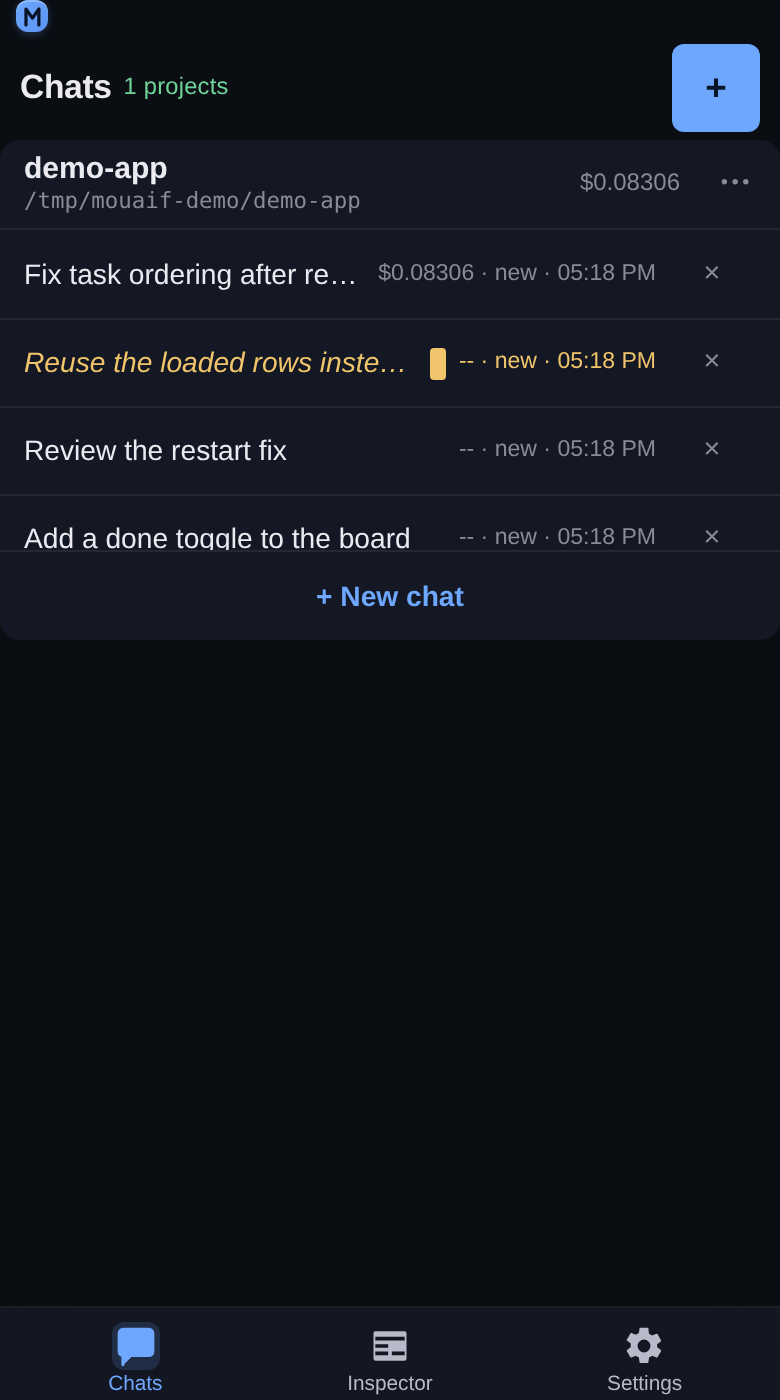
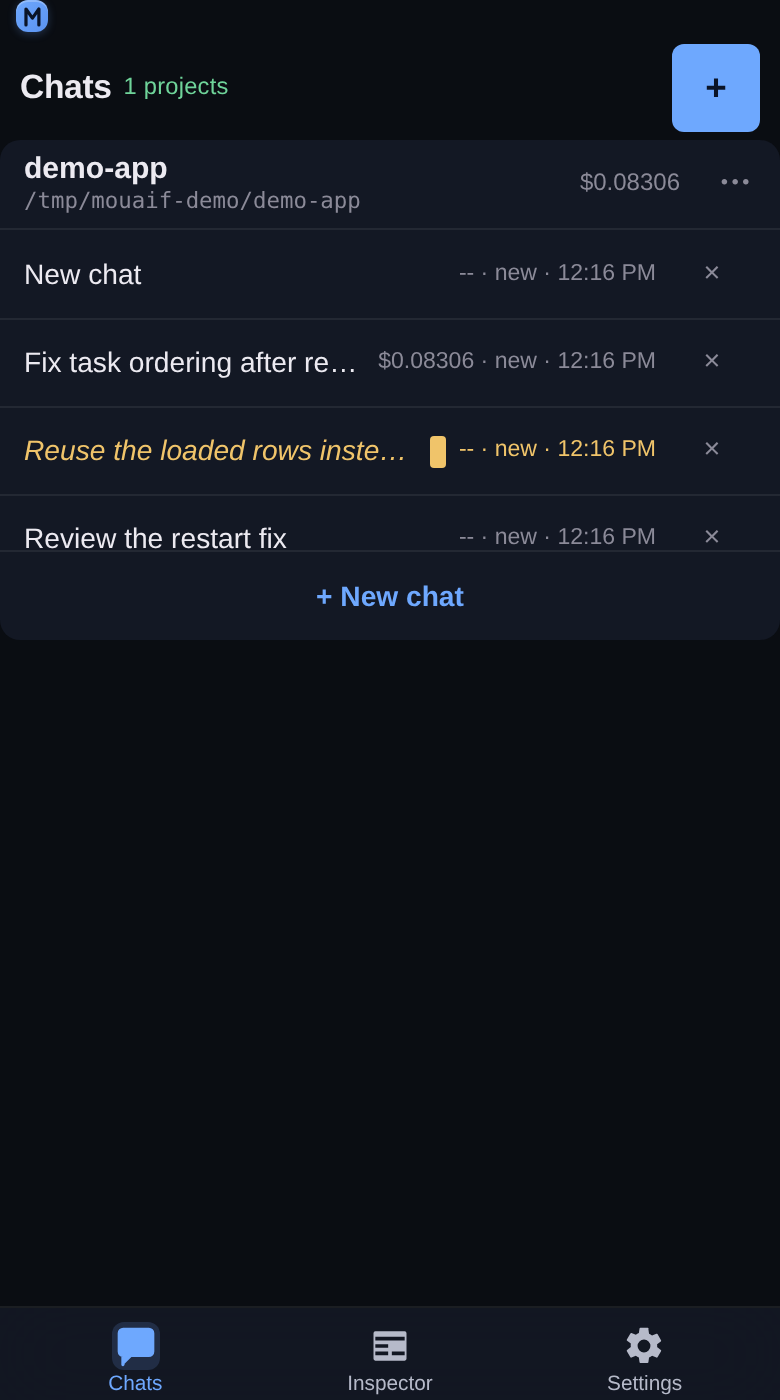
feat(docs): add an empty-chat tools capture to the landing page
The landing page's "See it on a phone" row started on a populated chat, so
the one screen a new user sees first — a brand-new chat, where the tools
card lists every tool with its Off / Ask / Allow control and its per-tool
checkbox — had no capture anywhere on the site.

- `seedChats()` now returns `{ chatId, emptyChatId }` and seeds a second,
  message-less chat over the same project models, so the tools capture has
  a real deep link instead of a synthesised screenshot.
- `capture-landing-shots.js` gains a `chat-tools.png` shot on that chat. Its
  recipe expands every collapsed `.tool-tree__chev` so the leaf checkboxes
  are visible, and `waitFor: '[data-tools-card="1"]'` holds the frame until
  the asynchronously fetched tool catalog has rendered the card.
- The shot is the second figure on the page, right after the chats list.
  Seven captures no longer fill a `repeat(3, ...)` grid evenly, so the row
  moves to `repeat(4, ...)` and `.site--full .main` is widened to 1180 px;
  the tablet and phone queries are unchanged.
- `chat-view.png`, `chats-list.png` and `inspector.png` are re-shot by the
  same run (the fixture gained a chat, so the project card changed).

diff --git a/docs/features/docs-site.html b/docs/features/docs-site.html
@@ -39,12 +39,13 @@
 <p>The public guide order and the public navigation links come from a single allowlist in <a href="../../scripts/build-docs.js">scripts/build-docs.js</a> (<code>PUBLIC_GUIDE_SLUGS</code>). The decisions log and the agent notes are never linked from the public navigation and are not written at all in a public build.</p>
 <p>The generated <code>features/*.html</code>, <code>index.html</code>, <code>documentation.html</code>, <code>assets/</code> and <code>.nojekyll</code> are committed under <code>docs/</code>, because Pages serves the branch as-is. The <code>.md</code> sources and <code>features/images/</code> sit in the same tree and are what the build reads.</p>
 <h2 id="landing-page-screenshots">Landing page screenshots</h2>
-<p>The landing page (<code>index.html</code>) opens with a <strong>See it on a phone</strong> section: six phone-width captures of the running app, showing what the app actually does rather than only saying it. The copy states the promise (every screen is built for a 360–430 px viewport first) and the captures are the evidence, so a reader sees the app before the install commands.</p>
-<p>The six captures, in page order:</p>
-<div class="table-wrap"><table><thead><tr><th>Capture</th><th>What it shows</th></tr></thead><tbody><tr><td><code>chats-list.png</code></td><td>The Chats tab — a project card holding its own chat list, a draft-only chat in italics, and <strong>New chat</strong></td></tr><tr><td><code>chat-view.png</code></td><td>A chat at the end of a run — the model header, per-turn cost lines, and the <strong>Read</strong>, <strong>Searched</strong>, <strong>Wrote</strong> and <strong>Ran</strong> tool cards</td></tr><tr><td><code>providers.png</code></td><td>Settings → Providers — three connected providers, each naming its endpoint and whether a key is stored</td></tr><tr><td><code>project-settings.png</code></td><td>Project settings — prompt style, then every tool with its own <strong>Off / Ask / Allow</strong> control</td></tr><tr><td><code>inspector.png</code></td><td>The Inspector attached to a page over CDP — target bar, panel chips, live preview, console input</td></tr><tr><td><code>settings.png</code></td><td>The Settings tab — providers first, then the app defaults that apply to every project</td></tr></tbody></table></div>
+<p>The landing page (<code>index.html</code>) opens with a <strong>See it on a phone</strong> section: seven phone-width captures of the running app, showing what the app actually does rather than only saying it. The copy states the promise (every screen is built for a 360–430 px viewport first) and the captures are the evidence, so a reader sees the app before the install commands.</p>
+<p>The seven captures, in page order:</p>
+<div class="table-wrap"><table><thead><tr><th>Capture</th><th>What it shows</th></tr></thead><tbody><tr><td><code>chats-list.png</code></td><td>The Chats tab — a project card holding its own chat list, a draft-only chat in italics, and <strong>New chat</strong></td></tr><tr><td><code>chat-tools.png</code></td><td>A brand-new chat — the system-prompt card and the <strong>Tools</strong> card, one checkbox and one <strong>Off / Ask / Allow</strong> control per tool</td></tr><tr><td><code>chat-view.png</code></td><td>A chat at the end of a run — the model header, per-turn cost lines, and the <strong>Read</strong>, <strong>Searched</strong>, <strong>Wrote</strong> and <strong>Ran</strong> tool cards</td></tr><tr><td><code>providers.png</code></td><td>Settings → Providers — three connected providers, each naming its endpoint and whether a key is stored</td></tr><tr><td><code>project-settings.png</code></td><td>Project settings — prompt style, then every tool with its own <strong>Off / Ask / Allow</strong> control</td></tr><tr><td><code>inspector.png</code></td><td>The Inspector attached to a page over CDP — target bar, panel chips, live preview, console input</td></tr><tr><td><code>settings.png</code></td><td>The Settings tab — providers first, then the app defaults that apply to every project</td></tr></tbody></table></div>
 <p>The images live in the same feature image tree as every other screenshot, so the existing recursive copy ships them:</p>
 <pre><code class="language-text">docs/features/images/landing/
   chats-list.png         # Chats tab, 390 × 700 @2x
+  chat-tools.png         # Empty chat, tools card expanded, 390 × 700 @2x
   chat-view.png          # Chat transcript, end of run, 390 × 700 @2x
   providers.png          # Settings → Providers, 390 × 700 @2x
   project-settings.png   # Project settings, 390 × 700 @2x
@@ -52,7 +53,7 @@
   settings.png           # Settings tab, 390 × 700 @2x</code></pre>
 <p>Because the section is on the site root, its <code>src</code> values are prefixed <code>features/images/...</code> rather than the <code>./images/...</code> a Markdown feature page uses.</p>
 <h3 id="layout">Layout</h3>
-<ul><li><p><strong>Laptop (above 1040 px)</strong> — three per row, in a fixed <code>repeat(3, minmax(0, 1fr))</code> grid. Six captures fill two rows exactly, so no capture is left alone and stretched on a row of its own.</p></li><li><p><strong>Tablet (761–1040 px)</strong> — two per row, centred at a 760 px maximum.</p></li><li><p><strong>Phone (<code>max-width: 760px</code>)</strong> — a single stacked column, each capture capped at 340 px and centred. Side-by-side thumbnails on a 360 px screen made the UI in each capture unreadable; the same breakpoint already stacks the <code>.feature</code> screenshot rows.</p></li><li><p><code>align-items: start</code> keeps the captures from stretching each other, and each keeps its own aspect ratio (<code>width: 100%</code>, <code>height: auto</code> on <code>.shot img</code>), so a shorter capture is a shorter card instead of a letterboxed one. The image has no corner radius because the <code>.shot</code> card and its <code>overflow: hidden</code> already clip it.</p></li></ul>
+<ul><li><p><strong>Laptop (above 1040 px)</strong> — four per row, in a fixed <code>repeat(4, minmax(0, 1fr))</code> grid. Seven captures fill one full row plus three, so no capture is left alone and stretched on a row of its own.</p></li><li><p><strong>Tablet (761–1040 px)</strong> — two per row, centred at a 760 px maximum.</p></li><li><p><strong>Phone (<code>max-width: 760px</code>)</strong> — a single stacked column, each capture capped at 340 px and centred. Side-by-side thumbnails on a 360 px screen made the UI in each capture unreadable; the same breakpoint already stacks the <code>.feature</code> screenshot rows.</p></li><li><p><code>align-items: start</code> keeps the captures from stretching each other, and each keeps its own aspect ratio (<code>width: 100%</code>, <code>height: auto</code> on <code>.shot img</code>), so a shorter capture is a shorter card instead of a letterboxed one. The image has no corner radius because the <code>.shot</code> card and its <code>overflow: hidden</code> already clip it.</p></li></ul>
 <h3 id="refreshing-the-captures">Refreshing the captures</h3>
 <p>Every capture is produced by one command:</p>
 <pre><code class="language-bash">npm run docs:shots</code></pre>

diff --git a/scripts/build-docs.js b/scripts/build-docs.js
@@ -572,7 +572,7 @@ table tr:last-child td { border-bottom: 0; }
   grid-template-columns: minmax(0, 1fr);
 }
 .site--full .main {
-  max-width: 1000px;
+  max-width: 1180px;
   width: 100%;
   margin: 0 auto;
 }
@@ -823,15 +823,15 @@ table tr:last-child td { border-bottom: 0; }
   background: var(--surface-2);
 }
 /* Landing-page screenshot row: phone-proportioned captures of the real UI.
-  Three per row on a laptop (six captures = two full rows, so no row is left
+  Four per row on a laptop (eight captures = two full rows, so no row is left
   with a single orphan card), a centred two-up in the middle width, and one
-  stacked column on a phone (see the media query). A fixed 3-column grid with
+  stacked column on a phone (see the media query). A fixed 4-column grid with
   a cap per card rather than auto-fit: auto-fit sizes the tracks from the
-  container, which left the last card of a six-shot row alone on its own line
-  and much wider than the others. */
+  container, which left the last card of a row alone on its own line and much
+  wider than the others. */
 .shot-row {
   display: grid;
-  grid-template-columns: repeat(3, minmax(0, 1fr));
+  grid-template-columns: repeat(4, minmax(0, 1fr));
   gap: 16px;
   align-items: start;
   margin: 24px 0;
@@ -1081,6 +1081,11 @@ const landingShots = [
     'Chats — projects group their own chats'
   ],
   [
+    'features/images/landing/chat-tools.png',
+    'An empty chat at 390 px: the system-prompt card and the Tools card, listing every tool with a checkbox and an Off / Ask / Allow control, above the "Start the conversation" state.',
+    'A new chat — every tool, Off / Ask / Allow'
+  ],
+  [
     'features/images/landing/chat-view.png',
     'A chat at 390 px: the model header, an assistant turn with its per-turn cost line, and the Read, Searched, Wrote and Ran tool cards above the composer.',
     'Chats — a run reads, searches, edits and tests'
@@ -1120,7 +1125,7 @@ const body = `
 </section>
 <section class="section" id="screenshots">
 <h2>See it on a phone</h2>
-<p class="lead">Every screen is built for a 360–430 px viewport first and grows from there. These are captures of the running app at 390 px wide — a project's chats, a run that reads and edits files, the providers behind it, the per-project tool permissions, the Inspector attached to a page, and the app defaults.</p>
+<p class="lead">Every screen is built for a 360–430 px viewport first and grows from there. These are captures of the running app at 390 px wide — a project's chats, a brand-new chat with every tool and its Off / Ask / Allow control, a run that reads and edits files, the providers behind it, the per-project tool permissions, the Inspector attached to a page, and the app defaults.</p>
 <div class="shot-row">
 ${landingShots}
 </div>

diff --git a/scripts/capture-landing-shots.js b/scripts/capture-landing-shots.js
@@ -245,6 +245,25 @@ const SHOTS = [
     alt: 'The Chats tab at 390 px: a project card holding its own chat list and a New chat button under it.'
   },
   {
+    file: 'chat-tools.png',
+    // A brand-new, message-less chat: its transcript is only the header block
+    // (setup control, system prompt, the tools card), so the shot shows the
+    // per-tool Off / Ask / Allow controls and the tool checkboxes on their
+    // own — the state a user lands in when they open a chat for the first
+    // time. The recipe expands every collapsed group so the leaf checkboxes
+    // are visible instead of a row of closed sections.
+    hash: () => `#/chat/${state.emptyChatId}?projectDir=${encodeURIComponent(state.projectDir)}`,
+    alt: 'An empty chat at 390 px: the system-prompt card and the Tools card, listing every tool with a checkbox and an Off / Ask / Allow control, above the "Start the conversation" state.',
+    recipe: `(() => {
+      for (const chev of document.querySelectorAll('.tool-tree__chev.is-collapsed')) {
+        chev.click();
+      }
+      const t = document.querySelector('.chat-view__transcript');
+      if (t) t.scrollTop = 0;
+    })()`,
+    waitFor: '[data-tools-card="1"]'
+  },
+  {
     file: 'chat-view.png',
     // The chat shot is taken at the transcript tail, where the run ends. The
     // `.chat-view__transcript` container is where the messages are, so the
@@ -298,7 +317,7 @@ const SHOTS = [
 
 // ---- main ---------------------------------------------------------------
 
-const state = { chatId: '', projectDir: '', previewUrl: '' };
+const state = { chatId: '', emptyChatId: '', projectDir: '', previewUrl: '' };
 
 async function main() {
   const chromeBin = findChrome();
@@ -355,7 +374,9 @@ async function main() {
       projects.registerProject(projectDir);
       seed.installProviders(settings);
       seed.installProjectModels(projectDir);
-      state.chatId = seed.seedChats(projectDir, chats, messages);
+      const seeded = seed.seedChats(projectDir, chats, messages);
+      state.chatId = seeded.chatId;
+      state.emptyChatId = seeded.emptyChatId;
       state.projectDir = projectDir;
 
       // The app server. `createServer(0)` then listen(0) keeps the port out of

diff --git a/docs/index.html b/docs/index.html
@@ -33,12 +33,17 @@
 </section>
 <section class="section" id="screenshots">
 <h2>See it on a phone</h2>
-<p class="lead">Every screen is built for a 360–430 px viewport first and grows from there. These are captures of the running app at 390 px wide — a project's chats, a run that reads and edits files, the providers behind it, the per-project tool permissions, the Inspector attached to a page, and the app defaults.</p>
+<p class="lead">Every screen is built for a 360–430 px viewport first and grows from there. These are captures of the running app at 390 px wide — a project's chats, a brand-new chat with every tool and its Off / Ask / Allow control, a run that reads and edits files, the providers behind it, the per-project tool permissions, the Inspector attached to a page, and the app defaults.</p>
 <div class="shot-row">
 <figure class="shot">
   <div class="shot-fallback">The Chats tab at 390 px: a project card holding its own chat list, a draft-only chat shown in italics, and a New chat button under it.</div>
   <img src="features/images/landing/chats-list.png" alt="The Chats tab at 390 px: a project card holding its own chat list, a draft-only chat shown in italics, and a New chat button under it." loading="lazy" />
   <figcaption>Chats — projects group their own chats</figcaption>
+</figure>
+<figure class="shot">
+  <div class="shot-fallback">An empty chat at 390 px: the system-prompt card and the Tools card, listing every tool with a checkbox and an Off / Ask / Allow control, above the &quot;Start the conversation&quot; state.</div>
+  <img src="features/images/landing/chat-tools.png" alt="An empty chat at 390 px: the system-prompt card and the Tools card, listing every tool with a checkbox and an Off / Ask / Allow control, above the &quot;Start the conversation&quot; state." loading="lazy" />
+  <figcaption>A new chat — every tool, Off / Ask / Allow</figcaption>
 </figure>
 <figure class="shot">
   <div class="shot-fallback">A chat at 390 px: the model header, an assistant turn with its per-turn cost line, and the Read, Searched, Wrote and Ran tool cards above the composer.</div>

diff --git a/scripts/lib/landing-fixture.js b/scripts/lib/landing-fixture.js
@@ -42,8 +42,12 @@ function installProjectModels(projectDir) {
   settings.setProject(projectDir, { models: MODELS });
 }
 
-// seedChats(projectDir, chats) -> the id of the chat that carries the
-// transcript, created last so it sorts to the top of the project card.
+// seedChats(projectDir, chats, messages) -> { chatId, emptyChatId }
+//
+// `chatId` carries the transcript, `emptyChatId` is the brand-new chat the
+// tools capture opens: no messages at all, so the transcript renders its
+// header block (setup control, system prompt, the tools card) on its own —
+// which is the whole point of that shot.
 function seedChats(projectDir, chats, messages) {
   for (const extra of EXTRA_CHATS) {
     const chat = chats.createChat(projectDir, { title: extra.title });
@@ -56,8 +60,13 @@ function seedChats(projectDir, chats, messages) {
     providerId: 'anthropic',
     draft: 'Now add a done toggle to the board view.'
   });
+  const empty = chats.createChat(projectDir, { title: 'New chat' });
+  chats.updateChat(projectDir, empty.id, {
+    modelId: 'claude-sonnet-4-6',
+    providerId: 'anthropic'
+  });
   chats.recomputeProjectTotalCost(projectDir);
-  return main.id;
+  return { chatId: main.id, emptyChatId: empty.id };
 }
 
 // ---- transcript ---------------------------------------------------------

diff --git a/docs/assets/site.css b/docs/assets/site.css
@@ -77,7 +77,7 @@ table tr:last-child td { border-bottom: 0; }
   grid-template-columns: minmax(0, 1fr);
 }
 .site--full .main {
-  max-width: 1000px;
+  max-width: 1180px;
   width: 100%;
   margin: 0 auto;
 }
@@ -328,15 +328,15 @@ table tr:last-child td { border-bottom: 0; }
   background: var(--surface-2);
 }
 /* Landing-page screenshot row: phone-proportioned captures of the real UI.
-  Three per row on a laptop (six captures = two full rows, so no row is left
+  Four per row on a laptop (eight captures = two full rows, so no row is left
   with a single orphan card), a centred two-up in the middle width, and one
-  stacked column on a phone (see the media query). A fixed 3-column grid with
+  stacked column on a phone (see the media query). A fixed 4-column grid with
   a cap per card rather than auto-fit: auto-fit sizes the tracks from the
-  container, which left the last card of a six-shot row alone on its own line
-  and much wider than the others. */
+  container, which left the last card of a row alone on its own line and much
+  wider than the others. */
 .shot-row {
   display: grid;
-  grid-template-columns: repeat(3, minmax(0, 1fr));
+  grid-template-columns: repeat(4, minmax(0, 1fr));
   gap: 16px;
   align-items: start;
   margin: 24px 0;

diff --git a/docs/agent/features/docs-site.md b/docs/agent/features/docs-site.md
@@ -28,9 +28,11 @@ The script is CommonJS, dependency-free, and runs under plain `node`. `node -c s
 
 ### Landing page screenshot row
 
-`buildLandingPage()` embeds six captures through `shotFigure()` — the same helper the old `#chats` / `#inspector` / `#settings` `.feature` sections used before `637aeda5` dropped them — wrapped in a `.shot-row` grid under the `#screenshots` section. The images are stored in `docs/features/images/landing/` (a subdirectory of the feature image tree) so `copyFeatureImages()` ships them to `features/images/landing/` for free; the `src` is therefore `features/images/landing/<file>.png`, not a `./images/…` path, because the page is generated at the site root and not under `features/`. Captures are 390 × 700 CSS px at device scale factor 2, so each PNG is 780 × 1400 and the row is a 2× asset that stays sharp on a retina phone.
+`buildLandingPage()` embeds seven captures through `shotFigure()` — the same helper the old `#chats` / `#inspector` / `#settings` `.feature` sections used before `637aeda5` dropped them — wrapped in a `.shot-row` grid under the `#screenshots` section. The images are stored in `docs/features/images/landing/` (a subdirectory of the feature image tree) so `copyFeatureImages()` ships them to `features/images/landing/` for free; the `src` is therefore `features/images/landing/<file>.png`, not a `./images/…` path, because the page is generated at the site root and not under `features/`. Captures are 390 × 700 CSS px at device scale factor 2, so each PNG is 780 × 1400 and the row is a 2× asset that stays sharp on a retina phone.
 
-The grid is a fixed `repeat(3, minmax(0, 1fr))` — **not** `auto-fit`. Six captures in an `auto-fit` row left the last card alone on its own line and stretched wider than the others; with a fixed three-column grid the six fill two exact rows, and `align-items: start` stops the taller captures from stretching their neighbours. The columns drop to `repeat(2, minmax(0, 1fr))` (centred, 760 px max) in a `(min-width: 761px) and (max-width: 1040px)` query, and to a single centred 340 px-capped column inside the existing `max-width: 760px` block, next to the `.feature` stacking rules. The middle query sits *outside* the 760 px block — nesting it there would have made the phone column rule apply at every width.
+The grid is a fixed `repeat(4, minmax(0, 1fr))` — **not** `auto-fit`. A seven-capture row in `auto-fit` left the last card alone on its own line and stretched wider than the others; with a fixed four-column grid the seven fill one exact row plus three, and `align-items: start` stops the taller captures from stretching their neighbours. The columns drop to `repeat(2, minmax(0, 1fr))` (centred, 760 px max) in a `(min-width: 761px) and (max-width: 1040px)` query, and to a single centred 340 px-capped column inside the existing `max-width: 760px` block, next to the `.feature` stacking rules. The middle query sits *outside* the 760 px block — nesting it there would have made the phone column rule apply at every width. `.site--full .main` is capped at 1180 px (not 1000 px) so four 390-px-wide captures fit on one laptop row without shrinking.
+
+`chat-tools.png` is the empty-chat capture: `seedChats()` returns `{ chatId, emptyChatId }`, where the second chat has no messages at all, so its transcript is only the header block (setup control, system prompt, tools card). The shot navigates to `#/chat/<emptyChatId>` and its `recipe` clicks every `.tool-tree__chev.is-collapsed` so the leaf checkboxes are visible instead of closed sections; `waitFor: '[data-tools-card="1"]'` holds the frame until the asynchronously fetched tool catalog has rendered the card.
 
 `scripts/capture-landing-shots.js` (`npm run docs:shots`) generates every PNG. It builds its own `MOUAIF_HOME` in the OS temp dir, seeds the fixture project, providers, project models and the demo transcript from `scripts/lib/landing-fixture.js`, starts a static page for the Inspector to attach to, launches headless Chrome with `--remote-debugging-port=9222`, and boots the app on an ephemeral port. Shots are taken over raw CDP (a hand-rolled WebSocket client, no dependency): `Emulation.setDeviceMetricsOverride` at 390 × 700 / DSF 2, `Page.navigate` on the app's own hash, two rAF plus a settle delay, an optional `recipe` (`Runtime.evaluate`) for scroll position and taps, an optional `waitFor` selector poll, then `Page.captureScreenshot`.
 

diff --git a/docs/features/docs-site.md b/docs/features/docs-site.md
@@ -21,13 +21,14 @@ The generated `features/*.html`, `index.html`, `documentation.html`, `assets/` a
 
 ## Landing page screenshots
 
-The landing page (`index.html`) opens with a **See it on a phone** section: six phone-width captures of the running app, showing what the app actually does rather than only saying it. The copy states the promise (every screen is built for a 360–430 px viewport first) and the captures are the evidence, so a reader sees the app before the install commands.
+The landing page (`index.html`) opens with a **See it on a phone** section: seven phone-width captures of the running app, showing what the app actually does rather than only saying it. The copy states the promise (every screen is built for a 360–430 px viewport first) and the captures are the evidence, so a reader sees the app before the install commands.
 
-The six captures, in page order:
+The seven captures, in page order:
 
 | Capture | What it shows |
 |---------|---------------|
 | `chats-list.png` | The Chats tab — a project card holding its own chat list, a draft-only chat in italics, and **New chat** |
+| `chat-tools.png` | A brand-new chat — the system-prompt card and the **Tools** card, one checkbox and one **Off / Ask / Allow** control per tool |
 | `chat-view.png` | A chat at the end of a run — the model header, per-turn cost lines, and the **Read**, **Searched**, **Wrote** and **Ran** tool cards |
 | `providers.png` | Settings → Providers — three connected providers, each naming its endpoint and whether a key is stored |
 | `project-settings.png` | Project settings — prompt style, then every tool with its own **Off / Ask / Allow** control |
@@ -39,6 +40,7 @@ The images live in the same feature image tree as every other screenshot, so the
 ```text
 docs/features/images/landing/
   chats-list.png         # Chats tab, 390 × 700 @2x
+  chat-tools.png         # Empty chat, tools card expanded, 390 × 700 @2x
   chat-view.png          # Chat transcript, end of run, 390 × 700 @2x
   providers.png          # Settings → Providers, 390 × 700 @2x
   project-settings.png   # Project settings, 390 × 700 @2x
@@ -50,7 +52,7 @@ Because the section is on the site root, its `src` values are prefixed `features
 
 ### Layout
 
-- **Laptop (above 1040 px)** — three per row, in a fixed `repeat(3, minmax(0, 1fr))` grid. Six captures fill two rows exactly, so no capture is left alone and stretched on a row of its own.
+- **Laptop (above 1040 px)** — four per row, in a fixed `repeat(4, minmax(0, 1fr))` grid. Seven captures fill one full row plus three, so no capture is left alone and stretched on a row of its own.
 - **Tablet (761–1040 px)** — two per row, centred at a 760 px maximum.
 - **Phone (`max-width: 760px`)** — a single stacked column, each capture capped at 340 px and centred. Side-by-side thumbnails on a 360 px screen made the UI in each capture unreadable; the same breakpoint already stacks the `.feature` screenshot rows.
 - `align-items: start` keeps the captures from stretching each other, and each keeps its own aspect ratio (`width: 100%`, `height: auto` on `.shot img`), so a shorter capture is a shorter card instead of a letterboxed one. The image has no corner radius because the `.shot` card and its `overflow: hidden` already clip it.
